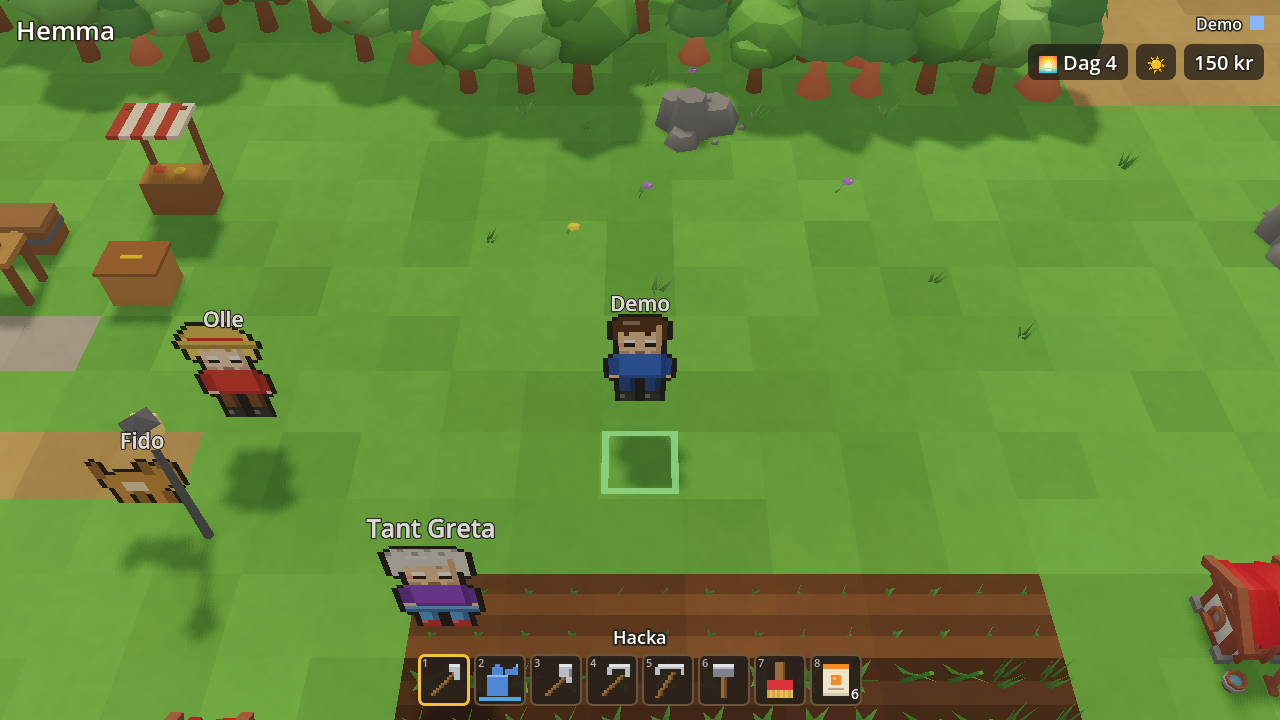
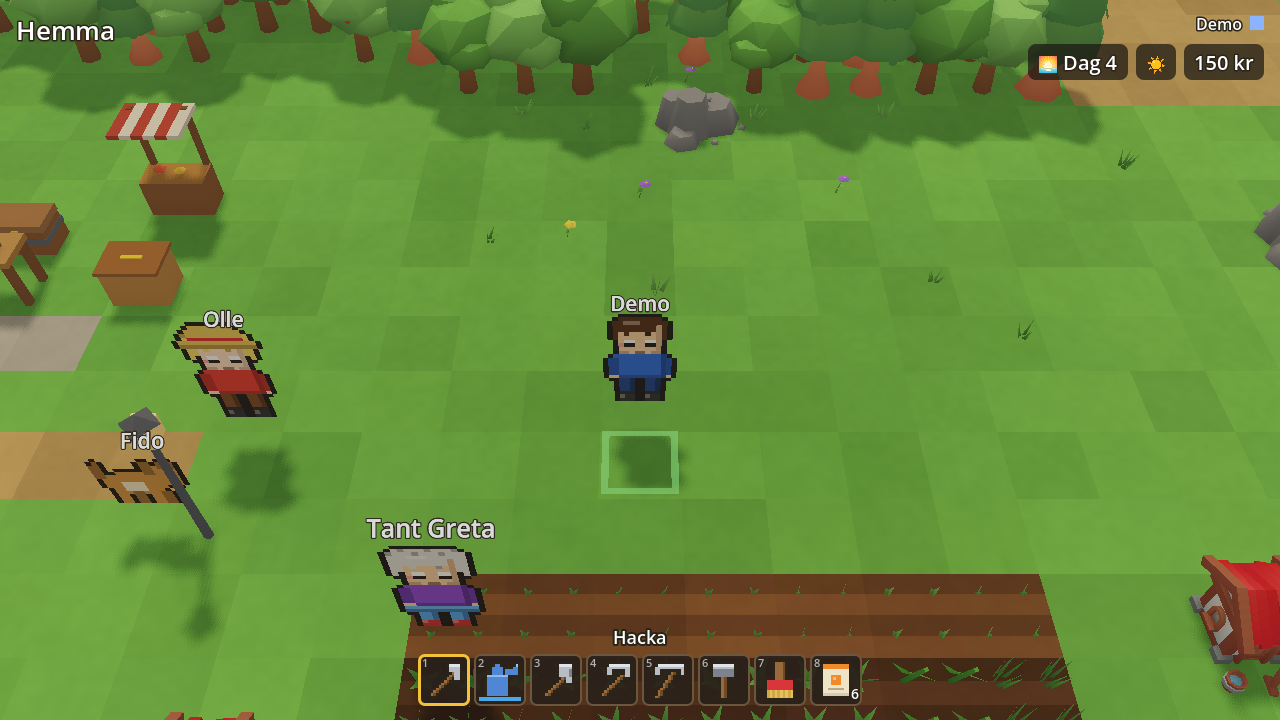
M7a review 4,7: a real Forward+ shader compile check in the export job, pond picture at real dusk, new pictures, DESIGN and ART follow
Claude-Session: https://claude.ai/code/session_01KTh22qWWBKXeP4TboJqexR

Changed region(s): [[0.4688, 0.5806, 0.5312, 0.7028], [0.7188, 0.0, 0.8438, 0.0306], [0.7188, 0.9167, 0.7812, 0.9472]]

diff --git a/DESIGN.md b/DESIGN.md
@@ -688,7 +688,7 @@ Wildlife that flees and returns, footsteps and ambient sound are M7b. The server
   Fireflies, butterflies and the mist live in a 30 × 24 m box that wraps round the hero. Each fades in and out over about
   two seconds when its moment comes (`day_night.gd` passes the darkness, the season of the *year*, the weather and the
   day's fraction):
-  fireflies on summer nights (dry or foggy, not in the biomes without seasons), butterflies by day in spring and summer in
+  fireflies on summer nights (not in rain, storm, snow or hail; windy nights too; not in the biomes without seasons), butterflies by day in spring and summer in
   sun or cloud, leaves in autumn whenever it is not wet or snowing (they fall from the crowns of the nearest twelve
   deciduous trees, found again when the hero has walked 4 m or the objects changed, and are carried along the wind),
   smoke from the chimneys of the farmhouse, the longhall, the smithy, the pizzeria, the bath house, the small houses and
